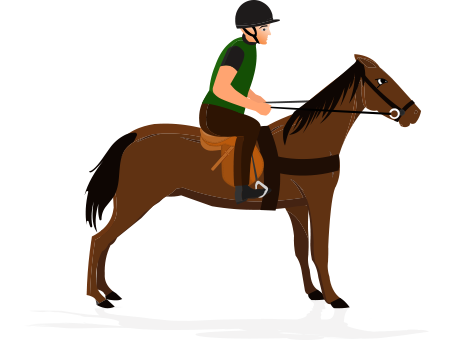
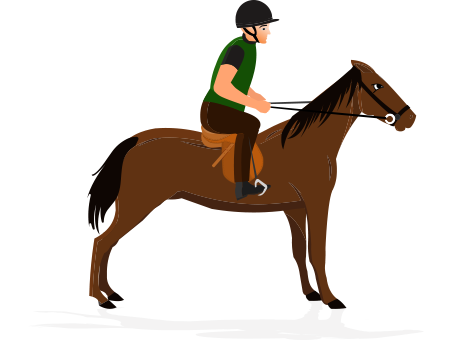
Adição das novas sprites

diff --git a/backend/vqjd/index.html b/backend/vqjd/index.html
@@ -92,7 +92,7 @@
             this.width = 320
             this.height = 270
             this.timer = 0
-            this.velocity = 4
+            this.velocity = 2
         }
 
         draw(x, y, index) {
@@ -136,7 +136,11 @@
                 console.log(playerId)
                 players.push(new Player())
                 console.log(game.state.rooms[thisRoom.thisRoom][playerId].horse.nome)
-                imgs.player[1].src = `img/${game.state.rooms[thisRoom.thisRoom][playerId].horse.nome}_vaquejada_Stay.png`
+                if(thisState !== STATE.run){
+                    imgs.player[1].src = `img/${game.state.rooms[thisRoom.thisRoom][playerId].horse.nome}_vaquejada_Stay.png`
+                }else{
+                    imgs.player[1].src = `img/${game.state.rooms[thisRoom.thisRoom][playerId].horse.nome}_vaquejada.png`
+                }
             }
 
             if(Object.keys(rooms[room.thisRoom]).length === 2){
